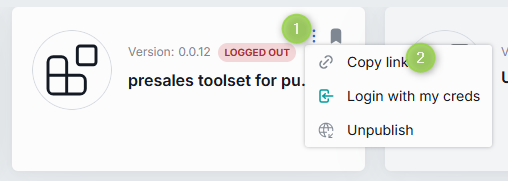
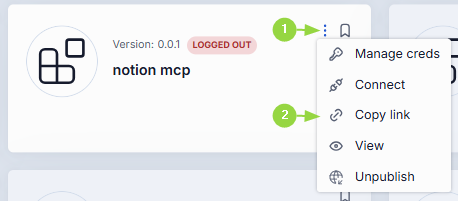
issues 6383 and 6245

diff --git a/docs/tutorials/0.user-guide.md b/docs/tutorials/0.user-guide.md
@@ -1482,11 +1482,30 @@ Use Delete in the app's menu to completely delete the selected application. **No
 
 ![](./img/register-app4.png)
 
-#### Application Link
+#### Connect
 
-For applications that are available organization-wide, you can copy and share a link that directs users straight to the application's card in the DIAL Marketplace, facilitating quick and easy navigation.
+##### Agent Link
+
+For agents (apps and AI models) that are available organization-wide, you can copy and share a link that directs users straight to the application's card in the DIAL Marketplace, facilitating quick and easy navigation.
+
+**To get a link:**
+
+1. Click actions menu on the agent's card.
+2. Click **Copy link**.
 
 ![](./img/app-link.png)
+
+##### MCP Endpoint
+
+For agents that expose MCP endpoint, you can copy the endpoint URL to integrate it into your workflow.
+
+**To get MCP endpoint:**
+
+1. Click actions menu on the agent's card.
+2. Click **Connect**.
+3. Click **Copy URL** in the pop-up.
+
+![](./img/app-mcp-link.png)
 
 ### Toolsets
 
@@ -1663,11 +1682,32 @@ Use **Delete** in the toolset's menu to completely delete the selected toolset. 
 
 ![](./img/delete-toolset.png)
 
-#### Toolset link
+#### Connect
+
+##### Toolset Link
 
 For toolsets that are available organization-wide, you can copy and share a link that directs users straight to the toolset's card in the DIAL Marketplace, facilitating quick and easy navigation.
 
+To get a link:
+
+1. Click actions menu on the toolset's card.
+2. Click **Copy link**.
+
 ![](./img/toolset-link.png)
+
+##### Toolset URL
+
+Copy a toolset URL to integrate it into your workflow.
+
+To get toolset URL:
+
+1. Click actions menu on the toolset's card.
+2. Click **Connect**.
+3. Click **Copy URL** in the pop-up.
+
+![](./img/toolset-url.png)
+
+> **TIP**: Toolset URL is also available within the toolset info card and in the toolset editor.
 
 ## Files
 